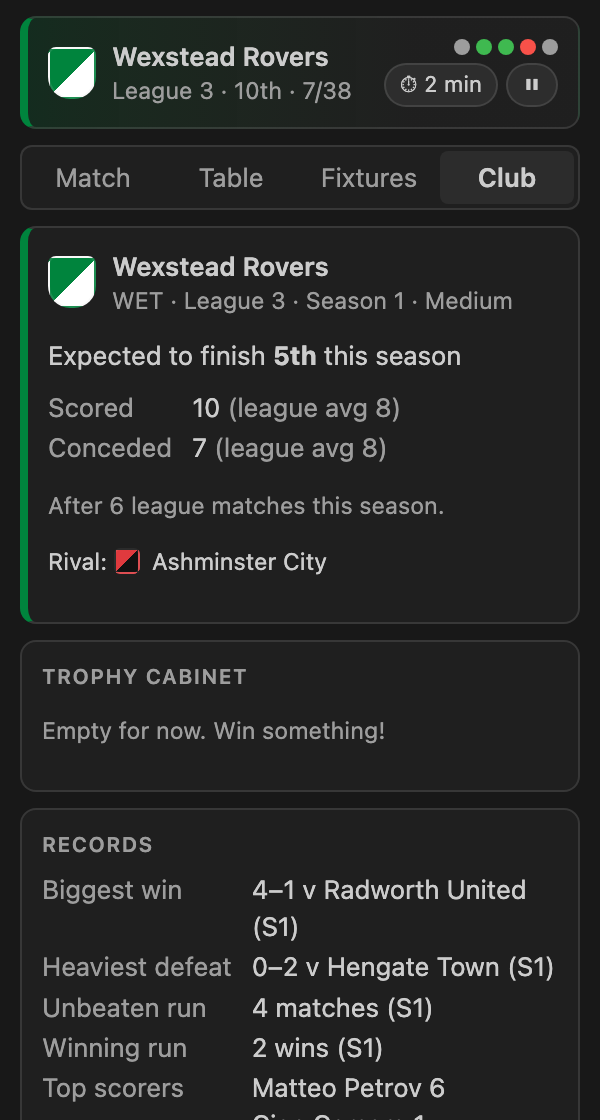
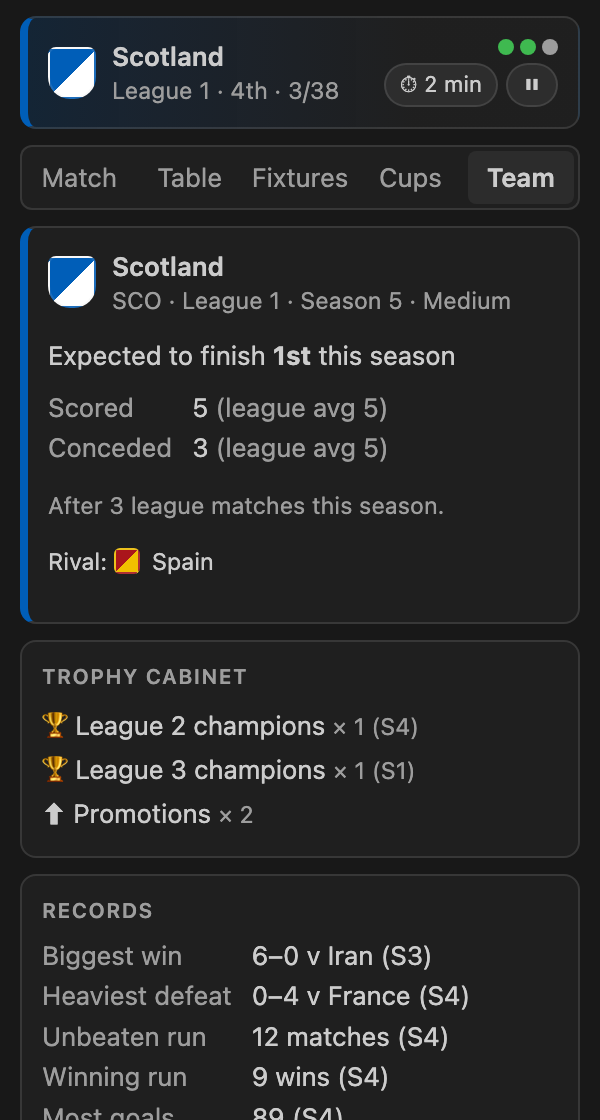
Update README, screenshots, changelog and design notes for nations and cups

diff --git a/DESIGN.md b/DESIGN.md
@@ -1,6 +1,6 @@
 # Sports Simulator
 
-> A football management sim that lives in a small box in your VS Code sidebar. You pick how good your club is, and it plays every match, table and season on its own while you code.
+> An international football sim that lives in a small box in your VS Code sidebar. You pick a country and where it starts, and it plays every match, table, cup and season on its own while you code.
 
 **Status legend**
 
@@ -15,11 +15,11 @@
 
 Football management with almost nothing to manage. Your only decisions are:
 
-1. **Which league you start in:** League 1 to 5, starting mid-table (rated in the middle of that league's band)
+1. **Which country you are, and which league it starts in:** any of FIFA's ~210 nations, in League 1 to 5 (its usual level by default), starting mid-table
 2. **How long a match lasts:** 30 seconds, 2 or 5 real minutes
 3. **Where to focus each summer:** attack, defence or balanced
 
-Everything else runs by itself: fixtures, matches, commentary, tables, scorers, play-offs, promotion and relegation, and the other 99 clubs rising and falling. You glance at it between tasks, react at the end of each season, and build a club history worth keeping.
+Everything else runs by itself: fixtures, matches, commentary, tables, scorers, play-offs, promotion and relegation, the Nations Cup and the World Championship, and the other 99 nations rising and falling. You glance at it between tasks, react at the end of each season, and build a club history worth keeping.
 
 ### Design principles
 
@@ -72,7 +72,7 @@ Next season … (won league 1? → carry on, or start a new career)
 | Difficulty | Easy / Medium / Hard | *A helpful boost each season* · *A subtle boost each season* · *No extra season boost*: Easy +10, Medium +5, Hard 0 (§7) |
 | Style | Attacking · Balanced · Defensive | Attacking starts attack 5 above the rating and defence 5 below (within the free lean); defensive the reverse |
 | Match duration | 30 sec · 2 min · 5 min | Length of one 90-minute match; can be changed any time from the ⏱ button in the box. Default 2 min |
-| Club name | Generated, editable | See §10 |
+| Country | Search box over every nation, A–Z | Sets the league picker to its usual level (marked *Usual*); any league can be picked. See §10 |
 
 ### Starting position
 
@@ -136,7 +136,7 @@ All matches on a matchday are simulated minute by minute at the same time. Only 
 
 ## 6. Leagues, promotion & relegation 🟢 NOW
 
-- **5 leagues × 20 clubs = 100 clubs.** No club is ever rated 100; ratings run 0–99. 38 matchdays per season (home and away). A season takes about 25 minutes (30s matches), 40 minutes (1 min), 80 minutes (2 min) or 3+ hours (5 min) of coding time.
+- **5 leagues × 20 nations = 100 teams.** "Club" in the code means any team. No club is ever rated 100; ratings run 0–99. 38 matchdays per season (home and away). A season takes about 25 minutes (30s matches), 40 minutes (1 min), 80 minutes (2 min) or 3+ hours (5 min) of coding time.
 - Rankings: points (3 win, 1 draw), then goal difference, then goals scored.
 
 **Movement between leagues (same at every boundary):**
@@ -163,11 +163,24 @@ That's 3 up and 3 down at each boundary. League 1 has no promotion (1st is champ
 
 At the start of every career, **each rating from 0 to 99 is used exactly once**:
 
-1. The player's club takes the rating they chose.
-2. The remaining 99 ratings are **shuffled randomly** across the 99 AI clubs.
-3. Clubs are placed into leagues by rating: the top 20 in League 1, and so on.
+1. The player's nation takes a random mid-table rating in the league they picked (§3).
+2. The other 99 nations keep the **world order** (§10), strongest first, and take the remaining ratings in that order, **shuffled within starting pots**:
 
-So each league starts with exactly one club on each rating in its band, and every career starts with a different world (which AI club is strong changes each time). A player choosing 99 starts as the strongest club; a player choosing 85 has fourteen League 1 clubs above them.
+| World order | Pot | Can start in |
+|---|---|---|
+| 1–8, 9–16 | two pots of 8 | League 1 |
+| **17–24** | swing pot | **League 1 or 2** |
+| 25–36 | core | League 2 |
+| **37–44** | swing pot | **League 2 or 3** |
+| 45–56 | core | League 3 |
+| **57–64** | swing pot | **League 3 or 4** |
+| 65–76 | core | League 4 |
+| **77–84** | swing pot | **League 4 or 5** |
+| 85–92, 93–100 | two pots of 8 | League 5 |
+
+3. Nations are placed into leagues by rating: the top 20 in League 1, and so on.
+
+So each league starts with exactly one team on each rating in its band, big nations are always near the top, and who starts as favourite changes every career. If the player starts England in League 5, everyone below England moves up a place to fill the gap. A nation from outside the world order takes the place of the 100th.
 
 The overall average starts at **49.5** and stays there every season (§7). After the first season, ratings move freely and are no longer unique.
 
@@ -175,6 +188,22 @@ The bands make movement feel real:
 - A league 5 club on 14 needs to get up to about 20 to challenge for promotion.
 - A league 4 club slipping below 20 is in a relegation fight.
 - A promoted club arrives near the bottom of its new league (the top of L2 ≈ 79 ≈ the bottom of L1), as in real life.
+
+### Cups 🟢 NOW
+
+Cups never change ratings: only league finishes feed the summer (§7). They bring trophies, records and stories. Each has its own place in the **Cups** tab, viewable whether or not you're in it, with the draw, results, groups and past winners.
+
+**Nations Cup, every season.** The top 64 of last season's final standings (season 1: the starting order), seeded 1–64.
+- Round of 64: seeds 1–32 each drawn against one of 33–64. Later rounds are drawn at random.
+- Round of 64, 32 and 16: one match, the lower seed at home (a chance of an upset), extra time and penalties if level.
+- Quarter- and semi-finals: two legs, the better seed at home second. Final: one match at a neutral ground.
+- Eight cup matchdays sit between league rounds (after matchdays 4, 9, 14, 19, 24, 29, 33 and 37), so the final comes before the last league round.
+
+**World Championship, every fourth summer** (seasons 4, 8, 12…), after the play-offs and before the summer decision.
+- Leagues 1 and 2 of the season just finished (40 nations), seeded by final position into five pots of 8. Each of 8 groups of 5 takes one nation from each pot, so the top 8 are always apart.
+- Groups play once each (5 matchdays, one team resting each time) at neutral venues; points, goal difference, goals scored.
+- The top two in each group go through. Round of 16: A1 v B2, C1 v D2, E1 v F2, G1 v H2, then B1 v A2, D1 v C2, F1 v E2, H1 v G2, so teams from the same group can only meet again in the final. One-off neutral matches to the final.
+- The last edition stays in the Cups tab until the next.
 
 ---
 
@@ -326,11 +355,11 @@ All numbers here (multiplier 1.0, bonuses, boosts) are starting values, tuned wi
 ### Sidebar box (Explorer view, bottom-left by default)
 
 - **Header:** club name, league, position, form (last 5 results as W/D/L dots), ▶/⏸ button
-- **Club tab:** rating, this season's goals scored and conceded against the league average (the only clue to the drain), rival, trophies, records, history
+- **Team tab:** rating, this season's goals scored and conceded against the league average (the only clue to the drain), rival, trophies, records, history
 - **Live match:** scoreboard (crests, score, clock) and a match report like a real game summary: goals prominent, cards small and greyed, half-time and full-time markers, newest first. No running commentary
-- **Tabs:** Match · Table · Fixtures · Club (stats, trophies, history)
+- **Tabs:** Match · Table · Fixtures · Cups · Team (stats, trophies, history)
 - **Table:** promotion, play-off and relegation places highlighted
-- **Rival:** one club in your league is your rival; derby matches are flagged
+- **Rival:** one team in your league is your rival, shown on the Team tab
 
 ### Status bar
 
@@ -389,33 +418,15 @@ Screen contents:
 
 ---
 
-## 10. Club naming 🟢 NOW
+## 10. Nations 🟢 NOW
 
-**Rule: no real club names, ever.**
+The game uses real nations, not clubs: country names, flags and colours are free to use, and everyone can follow how teams they know are doing. In the game: no federation crests, nicknames or competition names (no "World Cup" or "FIFA"), and no real players.
 
-Real club names, nicknames, crests and kits are trademarks. Close imitations of famous clubs (*"Manchester FC"*, *"Liverpool Town"*) are also off-limits. Many small towns have real non-league clubs, so "real town + suffix" often copies a real club by accident.
-
-### Approach
-
-1. **Fictional towns:** built from real place-name pieces (*Ash-, Brad-, Holt-, Kings-, -by, -ford, -wick, -ton, -bridge, -ham, -field*) into plausible towns that **don't exist**, e.g. *Ashminster, Holtbury, Draybridge, Kingsworth*. (The original examples Ashby, Holtwick and Kingsbridge all turned out to be real places.)
-2. **Suffixes:** *United, City, Town, Rovers, Athletic, Wanderers, Albion, County, Rangers*, plus *FC* or *AFC*.
-3. **Checked against real clubs:** every one of the 100 names is checked against club lists for the English pyramid (Premier League down through non-league), the Scottish, Welsh and Northern Irish leagues, and major European clubs. Towns are preferably not real UK places at all.
-4. **Blocklist:** the same club list is built into the name generator, so it can never produce a real club.
-5. **Fixed world:** one curated set of 100 clubs, each with generated colours and a 3-letter code (ASH, HOL…), so the world feels consistent across careers.
-6. **Your club:** a generated name you can edit at setup (the blocklist doesn't apply to names you type yourself).
-
-**How the names were checked (M4, Oct 2026).** Towns were generated from prefix + ending pieces, then a town was rejected if it:
-- appears in Wikipedia's lists of football clubs in England (down through non-league), Scotland, Wales or Northern Ireland, or its lists of towns and cities in England, Wales, Scotland (burghs), Northern Ireland and the UK;
-- has a Wikipedia page of exactly that title (which catches almost every real UK village, and many abroad);
-- is one letter away from any real club or place on those lists, or two letters from the town of any EFL, Scottish league, top Welsh/NI or major European club (this caught e.g. *Brenford*, *Selford*, *Tadcester*).
-
-1,868 candidates → 387 with no Wikipedia page → 316 clean → 100 hand-picked for the world, 216 kept for generating your club's name. The real-club list (2,816 names) and famous towns are built into the generator (`src/sports/football/data/blocklist.ts`). `npx tsx tools/check-names.ts --online` re-runs the checks.
-
-Players get generated names from a mixed pool of first names and surnames (English, Scottish, Irish, Welsh, West African, French, Iberian, Italian, Nordic, Dutch, Polish and more), with no repeated surname in a squad.
-
-### User renaming 🔵 LATER
-
-Rename any club locally (edit button, or import/export a names file). Anyone who wants real names can add them on their own machine. The extension never ships them.
+- **Playable nations:** FIFA's members (~210), leaving out any currently banned from international football (Russia). Following FIFA's list keeps the choice neutral: Kosovo, Palestine and Chinese Taipei are in because FIFA has them; England, Scotland, Wales and Northern Ireland are separate.
+- **World order:** the 100 nations in the world, ordered by hand on football standing: titles and history, consistency over the last decade, and current form. It is checked against the world ranking but not copied from it, so Italy and Germany stay high through a bad spell and a short hot streak doesn't lift a minnow. Reviewed against the ranking of 7 October 2026. The list is `WORLD_ORDER` in `src/sports/football/data/nations.ts`.
+- **Badges:** two or three flag colours in diagonal bands (France, Italy, Germany… get three). The first colour tints the header, so it is never black or white.
+- **Codes and short names:** three-letter codes (BRA, ENG, JPN); long names have a short form for narrow spaces (*Bosnia*, *N. Ireland*, *USA*).
+- **Players:** generated everyday names from the nation's region, about 40 pools (English, Scottish, Latin American, West African, Japanese, Arabic…). Some nations mix in a second pool for about a quarter of the squad (France, England, Netherlands…). Surnames don't repeat in a squad until a pool runs out, as with Kims and Nguyens. Name combinations that would produce famous real players are left out of the pools.
 
 ---
 
@@ -485,10 +496,13 @@ Each milestone finishes in a working state.
 | **M6** | Season loop UI | Play-offs, end-of-season screen, season report, decline, point allocation |
 | **M7** | Polish | Full-time overlay, form dots, rival/derby, trophy cabinet, history, records, copy summary, settings |
 | **M8** | Personal trial | Use it daily for two weeks; fix what's boring, annoying or unrealistic |
+| **M8b** | Nations and cups | Real nations replace fictional clubs; Nations Cup and World Championship (§6, §10) |
 
 **M8 progress (29 Oct 2026):** trial under way and going well. Done so far: two-stat model and summer focus, league picker, no rating numbers, badge colour picker, responsive box (header-only at its narrowest), Start next season button, games played in the header, and a visual pass (live table arrows, goal flash, sticky header, fixtures scroll, form tooltips). Marketplace groundwork: icon, README with screenshots and how to play, `vsce package` works (61 KB). MIT licence chosen and added.
 
-**Before publishing (M9):** done: GitHub repo renamed to `sports-simulator`; Marketplace publisher **bigdevgreg** created and set in package.json. Still to do: force-push the cleaned history (`git push --force-with-lease origin main`) and delete the `backup-before-email-rewrite` branch; make the GitHub repo public (README screenshots load from it); bump the version; `npx @vscode/vsce package` and upload the `.vsix` by hand at marketplace.visualstudio.com/manage (no Azure DevOps token needed). Updates: bump the version, package, upload with **Update**.
+**M8b (29 Oct 2026):** decided during the trial, before publishing: clubs became nations (relatable everywhere, and players can follow teams they know) and both cups were added.
+
+**Before publishing (M9):** done: GitHub repo renamed to `sports-simulator`; Marketplace publisher **bigdevgreg** created and set in package.json; cleaned history force-pushed and the backup branch deleted. Still to do: try the nations and cups build (fn+F5); make the GitHub repo public (README screenshots load from it); bump the version; `npx @vscode/vsce package` and upload the `.vsix` by hand at marketplace.visualstudio.com/manage (no Azure DevOps token needed). Updates: bump the version, package, upload with **Update**.
 
 ---
 
@@ -496,15 +510,12 @@ Each milestone finishes in a working state.
 
 In rough priority order:
 
-1. **League cups:** a knockout cup per league running alongside the league season, with upsets against bigger clubs
-2. **European competition:** for top league 1 finishers; group stage + knockouts against clubs from fictional foreign leagues
-3. **Player lifecycle:** ageing, retirement, youth players, star transfers (still automatic)
-4. **User renaming:** rename clubs locally, import/export name files
-5. **Other sports in the same extension** (after football is finished): sport choice at setup, separate career per sport, keywords for each sport so it shows up in search
+1. **Continental championships:** in the years between World Championships, by confederation
+2. **Player lifecycle:** ageing, retirement, youth players (still automatic)
+3. **Other sports in the same extension** (after football is finished): sport choice at setup, separate career per sport, keywords for each sport so it shows up in search
    - **Rugby union:** bonus points, tries/conversions/penalties commentary
    - **Cricket:** most different (formats, overs, innings, draws in multi-day games); highest effort
-6. **Hall of Fame:** archive of past careers
-7. **Publishing:** Marketplace listing, icon, screenshots, README
+4. **Hall of Fame:** archive of past careers
 
 ## 15. Ideas ⚪
 
@@ -566,6 +577,10 @@ In rough priority order:
 | Summer explanation behind "How does summer work?"; Club tab hides records that don't exist yet | Keeps the choice and its button in view; no columns of dashes |
 | MIT licence | Permissive and the norm for VS Code extensions; anyone can learn from or fork it |
 | Publisher `bigdevgreg`; publish by uploading the `.vsix` by hand | "BigMoneyGreg" was rejected as suspicious by the Marketplace; a token needs an Azure DevOps organisation, which asked for an Azure subscription |
+| Real nations replace fictional clubs | Relatable worldwide, and players can follow how teams they know are doing; clubs' names are trademarks, countries' aren't |
+| World order by football standing, shuffled within pots of 8 (swing pots across each league line) | A single ranking table over-rates hot streaks; pots keep big nations near the top while every career starts differently |
+| Any nation, any starting league (defaulting to its usual one) | People want to play as their own country, and some want a long climb |
+| Nations Cup (top 64, every season) and World Championship (Leagues 1–2, every 4th summer); no effect on ratings | Real-feeling moments beyond the league, without touching the balance tuning |
 
 ## 17. Name ✅
 

diff --git a/README.md b/README.md
@@ -1,31 +1,34 @@
 # Sports Simulator
 
-A football management sim that lives in a small box in your VS Code sidebar. Pick a league, and it plays every match, table and season on its own while you code. Glance over when you like; once a season, you make one decision.
+An international football sim that lives in a small box in your VS Code sidebar. Pick your country and where it starts, and it plays every match, table, cup and season on its own while you code. Glance over when you like; once a season, you make one decision.
 
 <p>
   <img src="media/screenshots/match.png" width="220" alt="A live match: scoreboard and match report">
-  <img src="media/screenshots/table.png" width="220" alt="The live league table, with clubs moving as goals go in">
+  <img src="media/screenshots/table.png" width="220" alt="The live league table, with teams moving as goals go in">
   <img src="media/screenshots/seasonOver.png" width="220" alt="The end of a season">
+  <img src="media/screenshots/cups.png" width="220" alt="The World Championship knockout rounds in the Cups tab">
 </p>
 
 ## How to play
 
-1. **Start a career.** Open the Sports Simulator box in the Explorer. Name your club, pick its badge colours, choose a league (L1 is the top), a difficulty, a match length and a style.
+1. **Start a career.** Open the Sports Simulator box in the Explorer. Pick your country (any of about 210), the league it starts in (its usual level is marked; L1 is the top), a difficulty, a match length and a style.
 2. **Let it play.** Matches play live while VS Code is open: goals, cards, half-time and full-time. The table moves as goals go in. Pause any time with ⏸.
 3. **Read the results.** You never see ratings. Lots of goals at both ends suggests you lean attacking; tight, low-scoring games suggest you lean defensive.
 4. **Choose your summer focus.** At the end of each season pick *Focus attack*, *Balanced* or *Focus defence*, then press **Start next season**. Finish above expectations and you have more to build with.
 5. **Climb.** Top two go up, 3rd–6th play off, bottom three go down. Win League 1 to be champions.
+6. **Chase the cups.** Finish in the top 64 to enter next season's Nations Cup. Every fourth summer, Leagues 1 and 2 play the World Championship: groups, then knockouts.
 
 ## Features
 
-- 100 fictional clubs across 5 leagues, with promotion, play-offs and relegation
+- 100 nations across 5 leagues, with promotion, play-offs and relegation; big nations start near the top, shuffled a little every career
+- The Nations Cup every season and the World Championship every four, each with its own Cups tab (draws, groups, results and past winners)
 - Live match report and live tables, with your score in the status bar
 - A goal flash in the box: green when you score, red when you concede
 - Fits any size: shrink the box and it keeps just the essentials (club, league, position, form and controls)
 - Season reports, trophy cabinet, club history and records
 - Pauses when VS Code closes, so you never miss a match
 
-All club and player names are fictional.
+Player names are generated and fictional. Competitions are the game's own, not official tournaments.
 
 ## Settings
 
@@ -45,7 +48,6 @@ npm run build          # bundles dist/extension.js and dist/webview.js
 npm test               # unit tests (Vitest)
 npm run test:integration   # launches your installed VS Code with a throwaway profile
 npm run balance        # headless balance check against DESIGN.md §5 and §7 (add --quick)
-npm run check-names    # re-checks club names against real clubs (add -- --online)
 npm run preview        # renders the webview with sample states in dist/preview/
 ```
 

diff --git a/CHANGELOG.md b/CHANGELOG.md
@@ -4,8 +4,9 @@
 
 First release.
 
-- Football career across 100 fictional clubs in 5 leagues, with promotion, play-offs and relegation
+- International football career: about 210 nations to play as, 100 of them in a world of 5 leagues with promotion, play-offs and relegation
+- Nations Cup every season and a World Championship every fourth summer, with their own Cups tab
 - Live matches, match report and live tables in the Explorer sidebar, with your score in the status bar
-- Setup: club name, badge colours, starting league, difficulty, match length and style
+- Setup: country, starting league, difficulty, match length and style
 - One decision a season: a summer focus on attack, defence or balance
 - Season reports, trophy cabinet, club history and records
